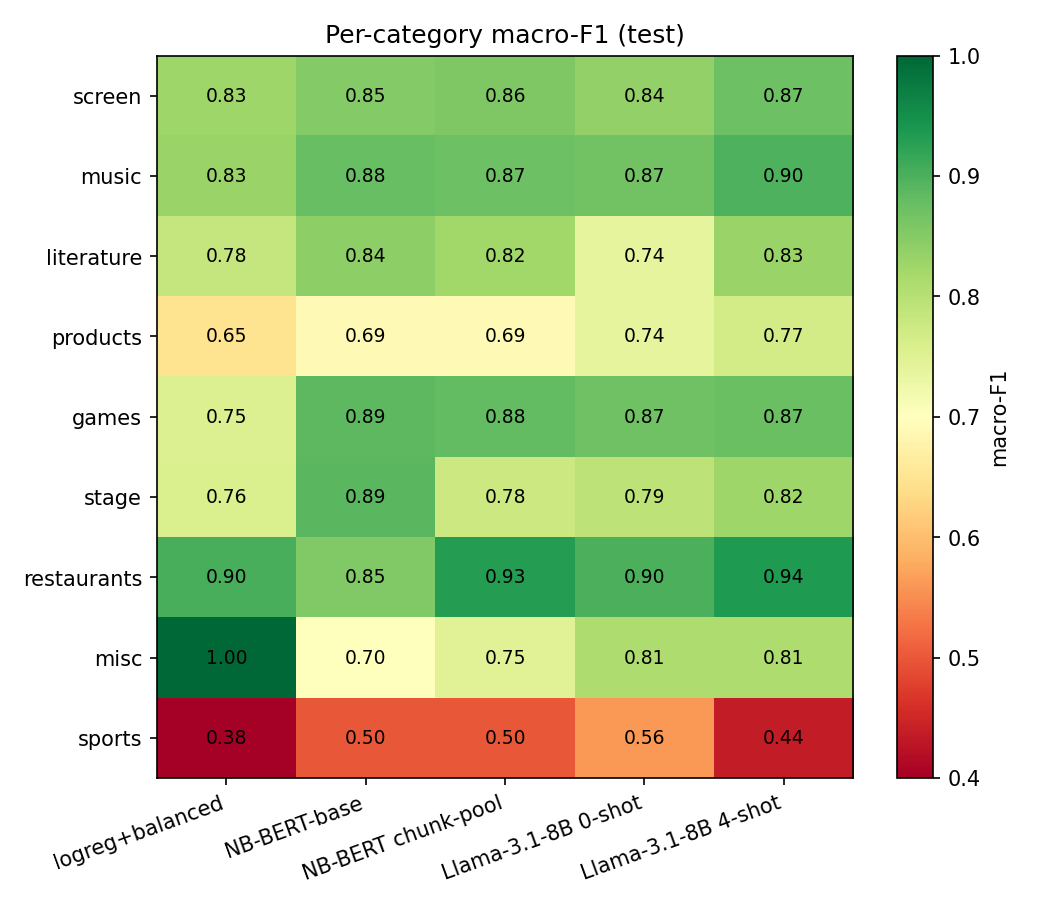
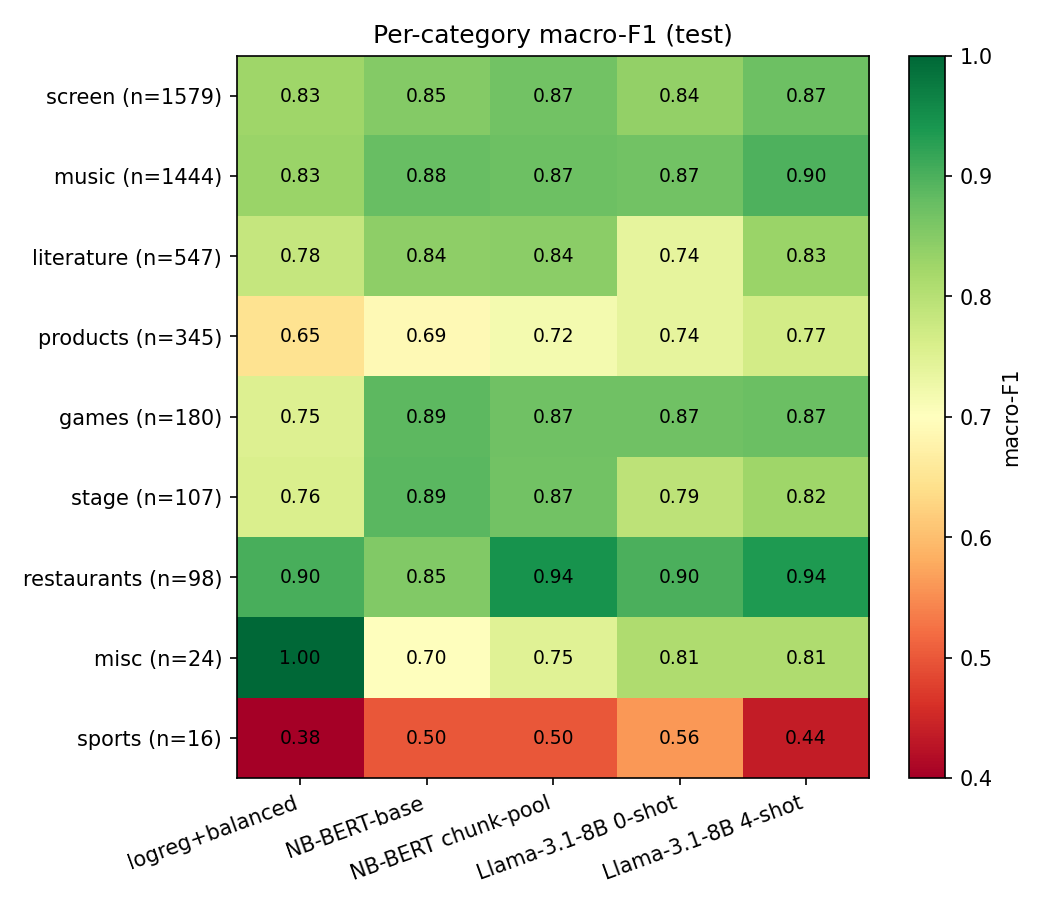
Fix chunk-and-pool to rebuild [CLS]/[SEP] per window; rerun ablation
Previous predict_chunked tokenized the document with special tokens, then
sliced the resulting token stream into windows. Only the first chunk therefore
started with [CLS]; later chunks started with an arbitrary content token even
though NB-BERT's classification head reads the position-0 representation.

Three independent reviewers flagged this as malformed. Rewriting predict_chunked
to tokenize the body without specials, chunk the content tokens, and rebuild
[CLS]/[SEP] for every window changes the result: aggregate macro-F1 rises from
0.8544 to 0.8633, and the 1000+-word bin rises from 0.5789 to 0.6616. The
length penalty therefore has both a truncation component (which chunk-and-pool
removes) and a residual gap (which it does not close) - a more nuanced reading
than the previous "architectural, not truncation" claim.

Also adds support counts to the per-category figure for visual consistency
with the per-source figure.

diff --git a/thesis/transformer.py b/thesis/transformer.py
@@ -49,34 +49,37 @@ def predict_chunked(
 ) -> np.ndarray:
     """Chunk-and-pool inference over long documents.
 
-    Each document is tokenized without truncation and split into overlapping
-    windows of `max_length` tokens (with `stride` step). Logits are averaged
-    across all windows of a document and argmax gives the per-document
-    prediction. Documents shorter than `max_length` collapse to a single
-    forward pass.
+    Each document is tokenized without special tokens, split into overlapping
+    windows of (max_length - 2) content tokens at the given stride, and the
+    tokenizer's special tokens ([CLS], [SEP]) are rebuilt for every window so
+    each chunk is a valid classification input. Logits are averaged across
+    all windows of a document and argmax gives the per-document prediction.
+    Documents shorter than the content budget collapse to a single window.
     """
     model.eval()
     pad_id = tokenizer.pad_token_id
     if pad_id is None:
         pad_id = 0
+    cls_id = tokenizer.cls_token_id
+    sep_id = tokenizer.sep_token_id
+    content_len = max_length - 2  # reserve room for [CLS] and [SEP]
 
     predictions: list[int] = []
     for text in texts:
-        encoded = tokenizer(
-            text, return_tensors="pt", truncation=False, padding=False,
-            add_special_tokens=True,
-        )
-        ids = encoded["input_ids"][0]
-        n_tokens = ids.shape[0]
+        body = tokenizer(text, add_special_tokens=False)["input_ids"]
+        n_body = len(body)
 
-        if n_tokens <= max_length:
-            chunks = [ids]
+        if n_body <= content_len:
+            ids_list = [cls_id] + list(body) + [sep_id]
+            chunks = [torch.tensor(ids_list, dtype=torch.long)]
         else:
             chunks = []
             start = 0
-            while start < n_tokens:
-                chunks.append(ids[start : start + max_length])
-                if start + max_length >= n_tokens:
+            while start < n_body:
+                window = body[start : start + content_len]
+                ids_list = [cls_id] + list(window) + [sep_id]
+                chunks.append(torch.tensor(ids_list, dtype=torch.long))
+                if start + content_len >= n_body:
                     break
                 start += stride
 

diff --git a/scripts/error_analysis.py b/scripts/error_analysis.py
@@ -52,6 +52,8 @@ HEADLINE = [
     ),
 ]
 
+CONFUSION_HEADLINE = [h for h in HEADLINE if h[1] != "NB-BERT chunk-pool"]
+
 
 def load_preds(csv_name: str) -> pd.DataFrame:
     path = RESULTS_DIR / csv_name
@@ -96,8 +98,8 @@ def main() -> None:
     df_test["n_words"] = df_test["text"].str.split().str.len()
 
     # ---------- Confusion matrices ----------
-    fig, axes = plt.subplots(1, len(HEADLINE), figsize=(4 * len(HEADLINE), 4))
-    for ax, (_family, label, csv_name) in zip(axes, HEADLINE):
+    fig, axes = plt.subplots(2, 2, figsize=(10, 9))
+    for ax, (_family, label, csv_name) in zip(axes.flatten(), CONFUSION_HEADLINE):
         df = load_preds(csv_name)
         plot_confusion(df["label"].to_numpy(), df["pred"].to_numpy(), label, ax)
     fig.suptitle("Confusion matrices on NoReC test (counts and row-normalized rates)")
@@ -142,7 +144,8 @@ def main() -> None:
     ax.set_xticks(range(len(pivot.columns)))
     ax.set_xticklabels(pivot.columns, rotation=20, ha="right")
     ax.set_yticks(range(len(pivot.index)))
-    ax.set_yticklabels(pivot.index)
+    cat_supports = cat_df.groupby("category", observed=True)["n"].first()
+    ax.set_yticklabels([f"{c} (n={cat_supports[c]})" for c in pivot.index])
     for i in range(len(pivot.index)):
         for j in range(len(pivot.columns)):
             v = pivot.values[i, j]

diff --git a/README.md b/README.md
@@ -15,10 +15,10 @@ Task: document-level binary sentiment with the canonical label mapping `{1,2,3} 
 | majority floor | 0.7753 | 0.4367 |
 | Logistic Regression (balanced) | 0.8765 | 0.8190 |
 | NB-BERT-base, 5 seeds | 0.8994 ± 0.0033 | 0.8529 ± 0.0038 |
-| NB-BERT-base + chunk-and-pool | 0.9030 | 0.8544 |
+| NB-BERT-base + chunk-and-pool | 0.9067 | 0.8633 |
 | **Llama-3.1-8B 4-shot, 5 seeds** | **0.9131 ± 0.0044** | **0.8777 ± 0.0036** |
 
-The 8B prompted LLM with four in-context demonstrations beats the fine-tuned encoder by roughly six pooled standard deviations on macro-F1 — a real, not-seed-noise gap. Within the Llama family, seed variance scales inversely with size (1B ±0.043, 3B ±0.017, 8B ±0.0036). The encoder's penalty on long reviews is *architectural*, not a truncation artefact (chunk-and-pool does not close the gap).
+The 8B prompted LLM with four in-context demonstrations beats the fine-tuned encoder by much more than the observed seed standard deviations on macro-F1 — a real, not-seed-noise gap. Within the Llama family, seed variance scales inversely with size (1B ±0.043, 3B ±0.017, 8B ±0.0036). The encoder's long-review penalty is partly a truncation effect — chunk-and-pool with per-window special tokens recovers about 5.7 macro-F1 points on the 1000+-word bin (from 0.605 to 0.662) — but the gap to the LLM (0.702 on the same bin) is not closed by this pooling strategy.
 
 ## Setup
 

diff --git a/results/summary_table.md b/results/summary_table.md
@@ -8,7 +8,7 @@
 | classical | Linear SVM | class_weight=none, C=10.0 | 1 | 0.8712 | 0.7995 | 0.6797 | 0.9194 |  |
 | classical | Linear SVM | class_weight=balanced, C=1.0 | 1 | 0.8747 | 0.8142 | 0.7082 | 0.9202 |  |
 | transformer | NB-BERT-base | 3 ep, lr=2e-05, batch=32, max_len=512 | 5 | 0.8994 ± 0.0033 | 0.8529 ± 0.0038 | 0.7703 ± 0.0054 | 0.9356 ± 0.0023 |  |
-| transformer | NB-BERT-base + chunk-and-pool | max_len=512, stride=256 | 1 | 0.9030 | 0.8544 | 0.7703 | 0.9385 |  |
+| transformer | NB-BERT-base + chunk-and-pool | max_len=512, stride=256 | 1 | 0.9067 | 0.8633 | 0.7863 | 0.9403 |  |
 | LLM (few-shot) | Llama-3.1-8B-Instruct | few-shot | 5 | 0.9131 ± 0.0044 | 0.8777 ± 0.0036 | 0.8119 ± 0.0045 | 0.9435 ± 0.0035 | 42 |
 | LLM (few-shot) | Llama-3.1-8B-Instruct | few-shot, k=2 | 1 | 0.9025 | 0.8665 | 0.7971 | 0.9359 | 53 |
 | LLM (few-shot) | Llama-3.1-8B-Instruct | few-shot, k=6 | 1 | 0.9101 | 0.8769 | 0.8129 | 0.9409 | 7 |
